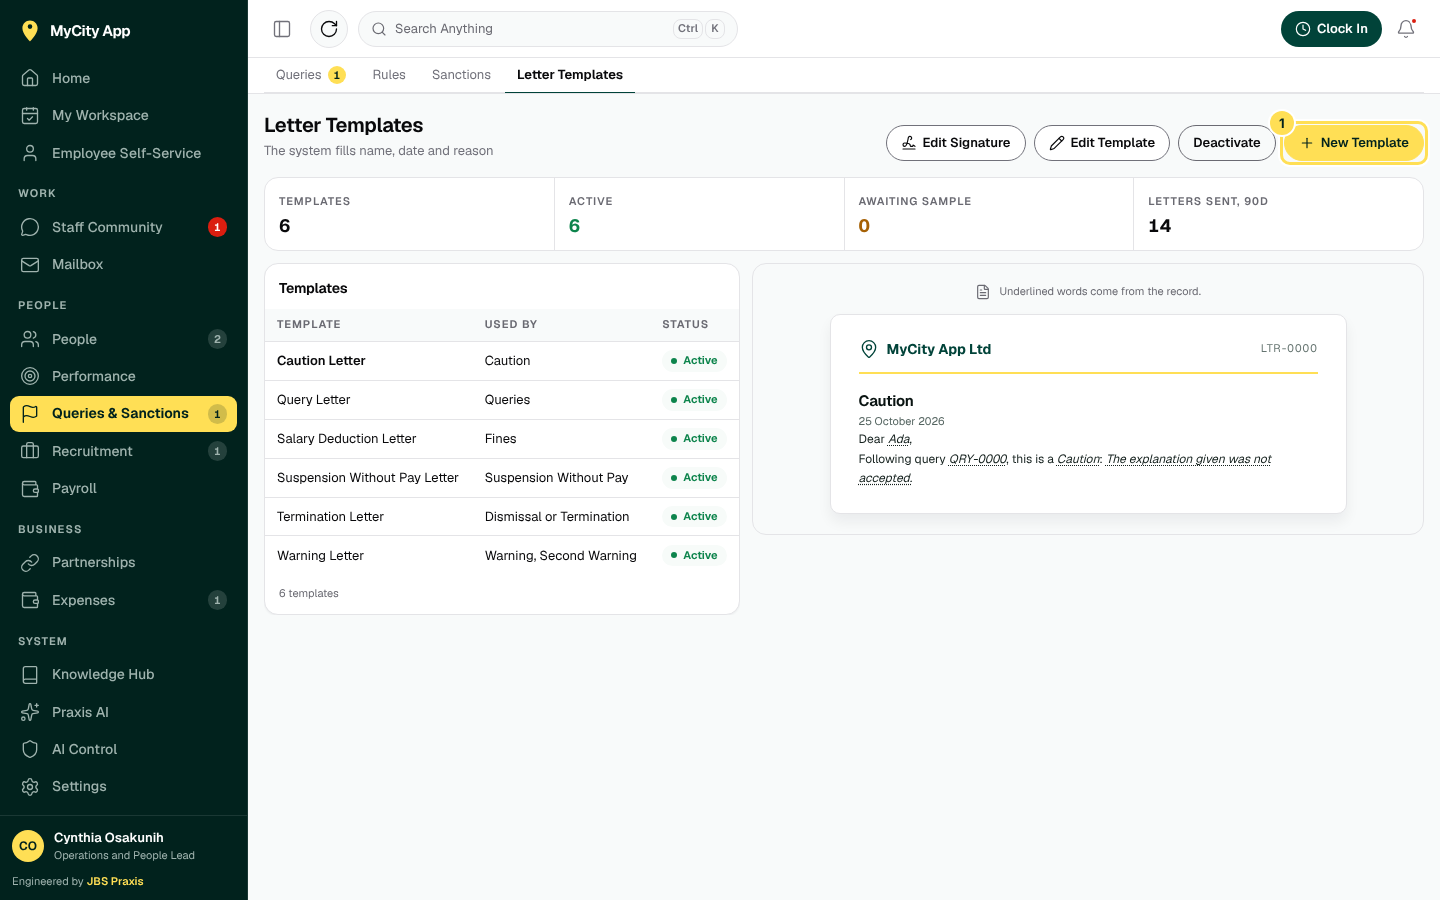
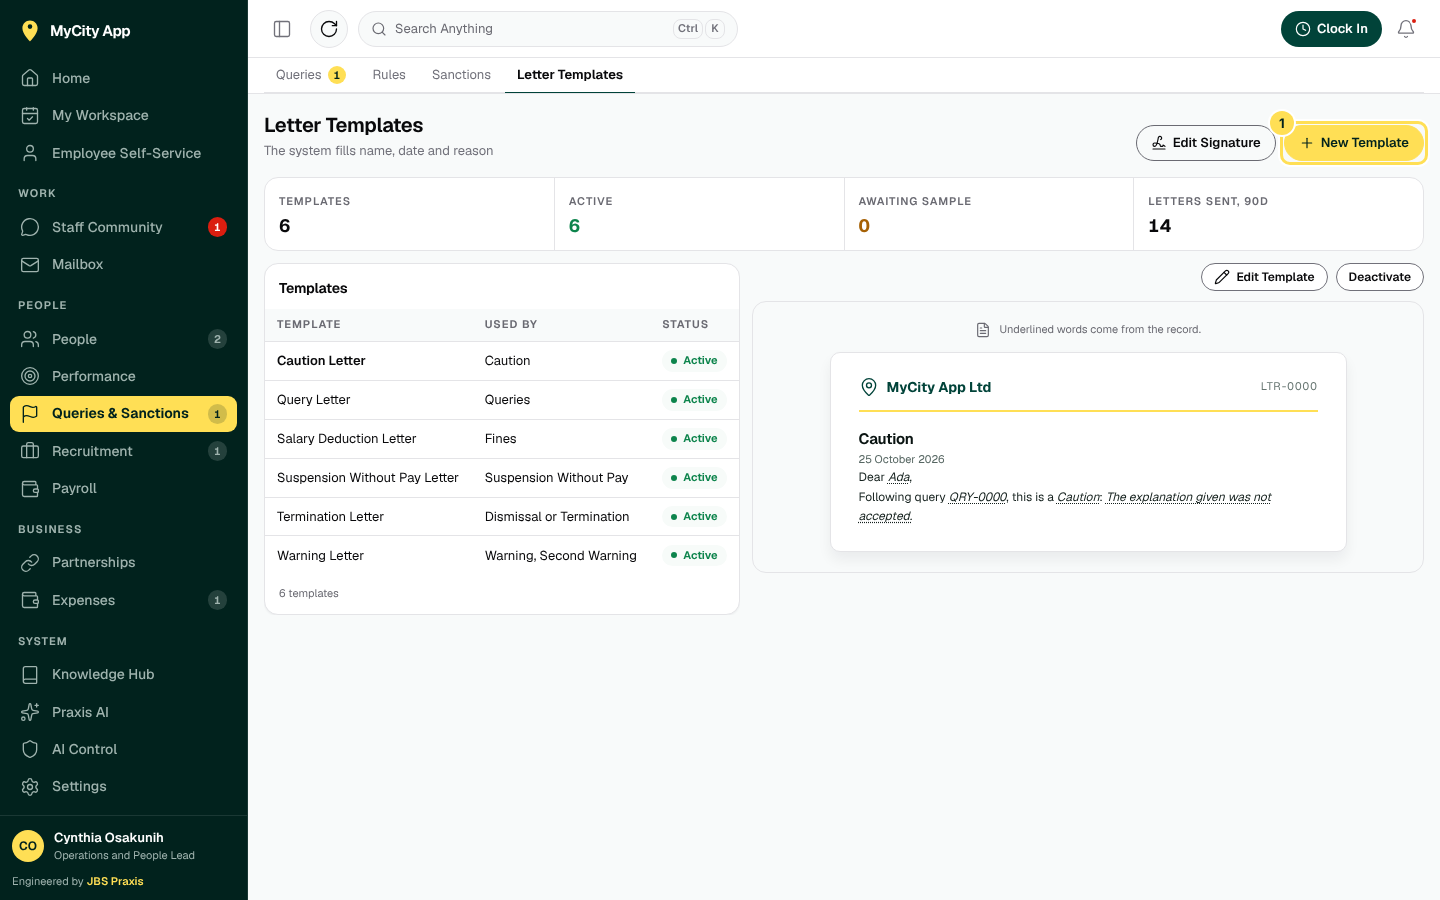
fix(sanctions): Issue Sanction lists every query ready for a decision; the letter's actions on its bar; the staging chain filled in
- Issue Sanction offered only answered queries, so one past its 24 hours unanswered never showed,
  though it can be decided. GET /queries?ready=true lists what a decision may be recorded on now
  (open, no sanction waiting, answered or past its deadline, not about the reader).
- Letter Templates: Edit Template and Activate or Deactivate sit on the letter's bar beside
  Download PDF; the header keeps Edit Signature and New Template.
- The staging seed adds each missing rung of the chain by name; a chain entered in part (staging
  had Caution and Warning by hand) is filled in, and a retired rung is not brought back.

Claude-Session: https://claude.ai/code/session_012fiycYuBHpukuELnRjtnBn

diff --git a/app/src/features/queries/index.tsx b/app/src/features/queries/index.tsx
@@ -3,7 +3,7 @@ import query_rules from "@mycity/contract/schemas/query_rules.js";
 import sanctions from "@mycity/contract/schemas/sanctions.js";
 import templates from "@mycity/contract/schemas/templates.js";
 import type { ConsequenceStep, LetterTemplate, LetterTemplateDetail, PersonRef, Query, QueryDetail, QueryRule, QueryRuleFiring, QueryRuleSource, Sanction } from "@mycity/contract/contract.gen.ts";
-import { useEffect, useRef, useState } from "react";
+import { useEffect, useRef, useState, type ReactNode } from "react";
 import { api, ApiError } from "@/api/client";
 import { saveBlob, useFileBlob } from "@/api/download";
 import type { PersonRef as PickedPerson } from "@/api/types/common";
@@ -636,7 +636,8 @@ const sanctionStatus = (s: Sanction) =>
  * Sanction. Only queries under review are offered; one that cannot be decided yet says why.
  */
 function IssueSanction({ close }: { close: () => void }) {
-  const list = usePaged("GET /api/v1/queries", { filters: { status: "under_review" }, sort: "-created_at" });
+  // Answered, or past the deadline unanswered: the queries a decision may be recorded on now.
+  const list = usePaged("GET /api/v1/queries", { filters: { ready: "true" }, sort: "-created_at" });
   const [picked, setPicked] = useState<Query[]>([]);
   const chosen = picked[0] ?? null;
   const q = useApi("GET /api/v1/queries/:id", { params: { id: chosen?.employee_query_id ?? "" }, enabled: !!chosen });
@@ -857,6 +858,20 @@ function Templates() {
       toast(e instanceof ApiError ? e.message : "Not saved");
     }
   };
+  // The letter's own actions sit on its preview, beside Download PDF.
+  const edit = () => shown && modal.open({ title: shown.name, wide: true, body: (close) => <EditTemplate id={shown.letter_template_id} close={close} /> });
+  const manage = configure && shown ? (
+    <>
+      <Button size="sm" icon="edit" onClick={edit}>Edit Template</Button>
+      {(shown.status === "draft" || shown.status === "active") && <Button size="sm" onClick={flip}>{shown.status === "active" ? "Deactivate" : "Activate"}</Button>}
+    </>
+  ) : null;
+  const above = (body: ReactNode) => (
+    <>
+      {manage && <ActionGroup><div className="mb-2.5 flex flex-wrap justify-end gap-2">{manage}</div></ActionGroup>}
+      {body}
+    </>
+  );
   return (
     <>
       <PageHeader
@@ -865,13 +880,7 @@ function Templates() {
         actions={
           <>
             <Button icon="signature" onClick={() => modal.open({ title: "My Signature", body: (close) => <EditSignature close={close} /> })}>Edit Signature</Button>
-            {configure && (
-            <>
-              {shown && <Button icon="edit" onClick={() => modal.open({ title: shown.name, wide: true, body: (close) => <EditTemplate id={shown.letter_template_id} close={close} /> })}>Edit Template</Button>}
-              {shown && (shown.status === "draft" || shown.status === "active") && <Button onClick={flip}>{shown.status === "active" ? "Deactivate" : "Activate"}</Button>}
-              <Button variant="primary" icon="plus" onClick={() => modal.open({ title: "New Template", body: (close) => <TemplateForm close={close} /> })}>New Template</Button>
-            </>
-            )}
+            {configure && <Button variant="primary" icon="plus" onClick={() => modal.open({ title: "New Template", body: (close) => <TemplateForm close={close} /> })}>New Template</Button>}
           </>
         }
       />
@@ -898,9 +907,9 @@ function Templates() {
         }
         detail={
           !shown ? null : shown.status === "awaiting_sample" ? (
-            <Card><EmptyState bare icon="doc" title="Awaiting Sample" text="Write the letter to preview it." /></Card>
+            <Card><EmptyState bare icon="doc" title="Awaiting Sample" text="Write the letter to preview it." action={configure ? <Button icon="edit" onClick={edit}>Edit Template</Button> : undefined} /></Card>
           ) : MOCK ? (
-            preview.data ? <Letter l={preview.data} /> : preview.error ? <Card><ErrorState error={preview.error} onRetry={preview.reload} /></Card> : <Card><LoadingRows count={6} /></Card>
+            above(preview.data ? <Letter l={preview.data} /> : preview.error ? <Card><ErrorState error={preview.error} onRetry={preview.reload} /></Card> : <Card><LoadingRows count={6} /></Card>)
           ) : pdf.blob && pdf.href ? (
             // The real PDF the employee would receive, signed with the reader's saved signature.
             <DocumentPreview
@@ -909,12 +918,18 @@ function Templates() {
               href={pdf.href}
               file={pdf.blob}
               height="page"
-              actions={<Button size="sm" icon="download" onClick={() => saveBlob(pdf.blob!, `${shown.name}.pdf`)}>Download PDF</Button>}
+              actions={
+                <ActionGroup>
+                  {manage}
+                  <Button size="sm" icon="download" onClick={() => saveBlob(pdf.blob!, `${shown.name}.pdf`)}>Download PDF</Button>
+                </ActionGroup>
+              }
             />
           ) : pdf.failed ? (
-            <Card><EmptyState bare icon="doc" title="Preview Not Ready" text="The letter could not be drawn." action={<Button icon="refresh" onClick={() => setRedraw((n) => n + 1)}>Try Again</Button>} /></Card>
+            above(<Card><EmptyState bare icon="doc" title="Preview Not Ready" text="The letter could not be drawn." action={<Button icon="refresh" onClick={() => setRedraw((n) => n + 1)}>Try Again</Button>} /></Card>)
           ) : (
             // The letter's own frame while it is drawn, never the wording first.
+            // The actions arrive with the PDF's bar, so they never jump from above it into it.
             <Card pad={false}><PdfViewer data={null} name={`${shown.name}.pdf`} height="page" /></Card>
           )
         }

diff --git a/src/modules/queries/queries.repo.js b/src/modules/queries/queries.repo.js
@@ -69,7 +69,8 @@ const SORTS = {
  * @param {{status?: string, employee_id?: string, raised?: "mine"|"rules", q?: string,
  *          raised_since?: string, raised_before?: string, page?: number, sort?: object}} query
  *   raised_since and raised_before are instants (the service turns a Lagos day into one)
- * @param {{all: boolean, user_id: string}} reader
+ *   ready: only queries the reader could decide now (queries.service decidable, less the edit grant)
+ * @param {{all: boolean, user_id: string, employee_id?: string|null}} reader
  */
 function list(db, query, reader) {
   const params = [
@@ -80,6 +81,8 @@ function list(db, query, reader) {
     query.q || null,
     query.raised_since || null,
     query.raised_before || null,
+    query.ready === "true",
+    reader.employee_id || null,
   ];
   const v = visibility.clause(reader, params, "v.raised_by");
   return pageQuery(
@@ -93,6 +96,9 @@ function list(db, query, reader) {
         AND ($5::text IS NULL OR v.haystack LIKE '%' || search_fold($5) || '%')
         AND ($6::timestamptz IS NULL OR v.created_at >= $6)
         AND ($7::timestamptz IS NULL OR v.created_at < $7)
+        AND (NOT $8::boolean OR (v.status <> 'resolved' AND NOT v.escalated
+             AND (v.responded_at IS NOT NULL OR v.response_due_at <= now())
+             AND ($9::uuid IS NULL OR v.employee_id <> $9)))
         ${v.and}
       ORDER BY ${orderBy(query, SORTS, "v.employee_query_id")}`,
     params,

diff --git a/tests/integration/queries.test.js b/tests/integration/queries.test.js
@@ -443,6 +443,20 @@ describeDb("queries and sanctions against the real migrations", () => {
       expect(self.body.error.code).toBe("QUERY_SELF");
     });
 
+    test("ready lists what a decision may be recorded on now: answered, or past the deadline unanswered", async () => {
+      const ready = async () => (await as("ops").get("/queries?ready=true&sort=number")).body.data.map((r) => r.number);
+      // QRY-0001 waits for Musa's answer, within its 24 hours.
+      expect(await ready()).toEqual([]);
+      const { response_due_at: due } = (await q("SELECT response_due_at FROM employee_query WHERE employee_query_id = $1", [ids.first])).rows[0];
+      await q("UPDATE employee_query SET response_due_at = now() - interval '1 hour' WHERE employee_query_id = $1", [ids.first]);
+      try {
+        expect(await ready()).toEqual(["QRY-0001"]);
+        expect((await as("ops").get(`/queries/${ids.first}`)).body.can_decide).toBe(true);
+      } finally {
+        await q("UPDATE employee_query SET response_due_at = $2 WHERE employee_query_id = $1", [ids.first, due]);
+      }
+    });
+
     test("a manager sees only the queries they raised; People and Management see all (§6.1)", async () => {
       const hod = await raise("hod", "other", "Late arrival on Monday");
       expect(hod.status).toBe(201);

diff --git a/seeds/staging/50_queries.js b/seeds/staging/50_queries.js
@@ -131,12 +131,17 @@ module.exports = async function seed({ pool, actor, log = () => {} }) {
   const staff = await realStaff(pool);
   const all = { scope: "all", scope_ids: null };
 
-  /* The chain, only when nobody has entered one. */
-  const { rows: steps } = await pool.query("SELECT count(*)::int AS n FROM consequence_step");
-  if (steps[0].n === 0) {
+  /*
+   * The chain: each rung added, at the end and in order, while no rung of its name exists. One
+   * entered by hand stays as it is, and a retired one is not brought back.
+   */
+  const { rows: steps } = await pool.query("SELECT name FROM consequence_step");
+  const have = new Set(steps.map((s) => s.name.toLowerCase()));
+  const missing = CHAIN.filter((step) => !have.has(step.name.toLowerCase()));
+  if (missing.length) {
     const by = (await callerOf(pool, staff.operations)) || actor;
-    for (const step of CHAIN) await chain.create(by, c.sanctions.ConsequenceStepCreate.parse(step));
-    log(`queries: the chain's ${CHAIN.length} rungs entered`);
+    for (const step of missing) await chain.create(by, c.sanctions.ConsequenceStepCreate.parse(step));
+    log(`queries: ${missing.length} of the chain's ${CHAIN.length} rungs entered (${missing.map((s) => s.name).join(", ")})`);
   }
 
   /* The rule. */

diff --git a/tests/integration/queries-staging-seed.test.js b/tests/integration/queries-staging-seed.test.js
@@ -161,4 +161,20 @@ describeDb("Queries & Sanctions' staging seed against the real migrations", () =
   test("a second run adds nothing", () => {
     expect(second).toEqual(first);
   });
+
+  // Staging had Caution and Warning entered by hand before the seed ran, so it entered none.
+  test("a chain entered in part gets its missing rungs, in order; a retired rung stays retired", async () => {
+    await q("UPDATE consequence_step SET active = false WHERE name = 'Second Warning'");
+    await q("DELETE FROM consequence_step WHERE name IN ('Suspension Without Pay', 'Dismissal or Termination')");
+    await runFile(seed, logs);
+    await settle();
+    const { rows } = await q("SELECT name, active FROM consequence_step ORDER BY position");
+    expect(rows).toEqual([
+      { name: "Caution", active: true },
+      { name: "Warning", active: true },
+      { name: "Second Warning", active: false },
+      { name: "Suspension Without Pay", active: true },
+      { name: "Dismissal or Termination", active: true },
+    ]);
+  });
 });

diff --git a/app/src/api/mock/modules/queries.ts b/app/src/api/mock/modules/queries.ts
@@ -466,6 +466,11 @@ route("GET /api/v1/queries", (req) => {
       status: (q, v) => q.status === v,
       employee_id: (q, v) => q.employee.employee_id === v,
       raised: (q, v) => (v === "mine" ? q.raised_by === uid(user) : q.source !== "person"),
+      // Ready for a decision, as can_decide reads it less the edit grant: Issue Sanction's picker.
+      ready: (q, v) =>
+        v !== "true" ||
+        (q.status !== "resolved" && !q.escalated && (!!q.responded_at || (!!q.response_due_at && new Date(q.response_due_at) <= new Date())) &&
+          byKey(user)?.employee_id !== q.employee.employee_id),
       // A review's month (performance.md §6.16): raised on these Lagos days, both inclusive.
       raised_from: (q, v) => lagosDay(q.created_at) >= v,
       raised_to: (q, v) => lagosDay(q.created_at) <= v,

diff --git a/packages/contract/schemas/queries.js b/packages/contract/schemas/queries.js
@@ -144,6 +144,9 @@ const QueryListQuery = listQuery(
     status: QueryStatus.optional(),
     employee_id: uuid.optional(),
     raised: z.enum(["mine", "rules"]).optional(),
+    // Ready for a decision (guide §6.4): open, no sanction waiting, answered or past its deadline,
+    // and not about the reader. Issue Sanction's picker lists these.
+    ready: z.enum(["true", "false"]).optional(),
     // Raised on these Lagos days, both inclusive (a review's month, performance.md §6.16).
     raised_from: isoDate.optional(),
     raised_to: isoDate.optional(),

diff --git a/packages/contract/contract.gen.ts b/packages/contract/contract.gen.ts
@@ -1,5 +1,5 @@
 // @generated by scripts/gen/contract.js. DO NOT EDIT.
-// Source hash: 3a7356d4cd261b87. Regenerate: npm run gen:contract
+// Source hash: 9921e8770c0539c9. Regenerate: npm run gen:contract
 /* eslint-disable */
 import type { z } from "zod";
 import * as access from "./schemas/access.js";

diff --git a/src/modules/queries/queries.visibility.js b/src/modules/queries/queries.visibility.js
@@ -21,6 +21,7 @@ function readerOf(scope, user) {
   return {
     all: Boolean(user && user.is_ceo === true) || Boolean(scope && scope.scope === "all"),
     user_id: user ? user.user_id : null,
+    employee_id: (user && user.employee_id) || null,
   };
 }
 

diff --git a/docs/guides/queries.md b/docs/guides/queries.md
@@ -125,7 +125,7 @@ Contract files: `schemas/queries.js`, `schemas/query_rules.js`, `schemas/sanctio
 | Method and path | Contract | Permission · scope | Paged | Notes |
 |---|---|---|---|---|
 | `GET /api/v1/queries/summary` | → `QueriesSummary` | `queries` view · §6.1 | no | |
-| `GET /api/v1/queries` | `QueryListQuery` (`status`, `employee_id`, `raised`: `mine`, `rules`, `raised_from` and `raised_to` (Lagos days, both inclusive; a review's month), `q`, `sort`) → `QueryPage` | `queries` view · §6.1 | yes, 25 | |
+| `GET /api/v1/queries` | `QueryListQuery` (`status`, `employee_id`, `raised`: `mine`, `rules`, `raised_from` and `raised_to` (Lagos days, both inclusive; a review's month), `ready` (`true`: open, no sanction waiting, answered or past its deadline, not about the reader; Issue Sanction's picker), `q`, `sort`) → `QueryPage` | `queries` view · §6.1 | yes, 25 | |
 | `GET /api/v1/queries/:id` | → `QueryDetail` | `queries` view · §6.1 | no | 404 outside visibility. `approval` names the stage a proposed sanction waits on, whether the reader may decide it and whether they sign |
 | `POST /api/v1/queries` | `QueryCreate` → `QueryDetail` | `queries` create | | Idempotency-Key |
 | `POST /api/v1/queries/:id/remind` | `EmptyBody` → `QueryDetail` | `queries` create · §6.1 | | Once a day, while awaiting a response |
@@ -480,9 +480,9 @@ or tier 2.**
 | Queries | KPI strip; All Queries and Raised by Me chips; the list (employee, number, subject, raised by or the rule, raised, response, status); the query card (subject, raised by (a person, the rule, or Attendance Policy), raised, response due, counted days, response, sanction, and while a sanction waits: its step and who it waits on); Raise a Query (only with `queries` create; also from ⌘K), Send Reminder, View Letter (the PDF the employee received), Record Decision; Approve Sanction (Your Signature at the Operations & People stage) and Reject (Reason) for whoever it waits on; a refused proposal reads "Not Approved" | Help on Escalated (the KPI) and on Waiting On: a sanction is waiting for approval. Help on Response Due: the 24 hour window. Help on Your Signature when approving: it signs the letters | Who can see which query, the dedup, how a rule counts: §6 here, the manual |
 | Record Decision | Outcome (Close, No Action or Sanction), the step (the next one marked Next; only steps whose letter is ready), dates for an unpaid suspension, Evidence (one item a line) for a step that requires it, fine, reason | Help on the next rung: why it is offered. Help on Evidence: the step needs the facts it rests on | The approval route and its thresholds: Settings · Approvals, §6.5 |
 | Rules | KPI strip; rule cards (name, trigger, threshold as "3 in 14 days", the policy it enforces, status), a page at a time; Recent Firings; New Rule, Edit Rule, Activate, Pause; the rule form's Name, What Sets It Off, How Many Times, Within, Days, Policy and Clause (both Optional); an empty state when there are no rules | Help on Policy and on Clause, as the form reads them. Help on What Sets It Off: late arrivals, absences and missing clock-outs are the Attendance Policy's. Help on a draft's trigger nothing counts yet (Missed Target), in place of Activate | Counting after the last query, the dedup key: §6.3 |
-| Sanctions | KPI strip; the history (employee, sanction, query, reason, decided by, date, fine, status); Issue Sanction (with `queries` edit: Query, a picker of those under review, then Record Decision at Sanction), Chain Settings | None | The rank rule for approvals, valid_days mechanics: §6.5 |
+| Sanctions | KPI strip; the history (employee, sanction, query, reason, decided by, date, fine, status); Issue Sanction (with `queries` edit: Query, a picker of those ready for a decision (`ready=true`), then Record Decision at Sanction), Chain Settings | None | The rank rule for approvals, valid_days mechanics: §6.5 |
 | Chain Settings | The steps in order (position and name, Ready, Needs a Letter or Retired, letter, financial effect, in force for); Add Step, Move Up, Move Down, Retire, Restore | Help on In Force For: how long a step counts for the next offence | Why a fine is not a rung: §6.6 |
-| Letter Templates | Stat strip; the list (template, used by, status); the selected letter as its PDF, with Download PDF (on paper, the record's words underlined, in the demo build); Edit Signature; New Template (Name, Used For, Letter; Save Draft, Save and Activate), Edit Template (Name, Used For while nothing sends it, Letter, opening with its wording), Activate on a draft, Deactivate on an active letter | Help on Letter: the names a letter can use. Help on Used For when it is fixed | Versioning, the shipped defaults: §6.7 |
+| Letter Templates | Stat strip; the list (template, used by, status); the selected letter as its PDF, its bar holding Edit Template, Activate or Deactivate, Download PDF and Open in Tab (on paper, the record's words underlined, in the demo build, the actions above it); Edit Signature and New Template in the header; New Template (Name, Used For, Letter; Save Draft, Save and Activate), Edit Template (Name, Used For while nothing sends it, Letter, opening with its wording), Activate on a draft, Deactivate on an active letter | Help on Letter: the names a letter can use. Help on Used For when it is fixed | Versioning, the shipped defaults: §6.7 |
 | ESS · My Queries | The Queries and Sanctions switch with each one's count; Queries: the list (number, subject, raised, status), the picked query (subject, raised, respond by, what happened, your response, outcome, sanction), View Letter, Respond; Sanctions: the list (sanction, query, reason, date, fine), each opening its letter | Help on Respond By: the 24 hour window | The sanitising, the Markdown kept: §3 step 3 |
 
 ### 10.2 Phone layout
@@ -585,7 +585,11 @@ or tier 2.**
   A letter's PDF grows to its pages (`height="page"`), so the screen scrolls once, not a frame
   inside it. Rules says why Late Arrival is not offered and why Missed Target has no Activate. A
   signature is kept cut to its ink (`SignatureField`), so a letter prints it at a signature's size,
-  not the whole pad shrunk to a mark.
+  not the whole pad shrunk to a mark. Edit Template and Activate or Deactivate moved from the header
+  onto the letter's bar, beside Download PDF (GE, 29/10/2026). Issue Sanction offered only answered
+  queries, so one past its 24 hours unanswered (decidable all the same) never showed: its picker
+  lists `ready=true` now. The staging seed adds each missing rung of the chain by name, so a chain
+  entered in part on staging is filled in; a retired rung is not brought back.
 - 27/10/2026 · GE · My Signature (handoff §9, S2; §6.9): drawn once on Letter Templates' Edit
   Signature, kept through the vault (`letter_signature`, migration `3050`); Raise a Query's and
   Approve Sanction's pads open with it.

diff --git a/docs/PROGRESS.md b/docs/PROGRESS.md
@@ -1192,6 +1192,7 @@ order, then PR 3, PR 4 and PR 5 in parallel; each PR moves its own row)
 - 28/10/2026 · GE · Issue Sanction on Sanctions (#36) picks the query in place (handoff §9, S4): a picker of the queries under review, then Record Decision on it at Sanction; only with `queries` edit (it sent the reader to Queries). The contract's saved-signature shapes renamed `LetterSignature`, `LetterSignatureSave` (the mailbox owns `MySignature`). Left: nothing of the sequel; MyCity's HR to read the deduction letter; the public repository (handoff §8.1).
 - 28/10/2026 · GE · Letter Templates (#37) from GE's staging walk: the PDF preview drew nothing (the viewer had the link, not the bytes) and the paper wording flashed first; it now opens in the PDF's frame while drawn, with Try Again on failure, and renders once. A browser forcing dark mode darkened the signature pad under its ink: `SignatureField` (`@mycity/ui`) now paints its paper into the bitmap, which the browser leaves alone (checked in Chromium with forced dark on). Left: check both on staging once #33 deploys.
 - 28/10/2026 · GE · Second staging walk on Queries (#34), Rules (#35) and Letter Templates (#37): View Letter drew nothing (`DocumentPreview` in `@mycity/ui` now reads a PDF's bytes from its link when given none, which mends every caller, My Queries' letters included); a letter's PDF grows to its pages (`height="page"`) so one scroll bar shows, not two; Rules carries help on What Sets It Off (late arrivals, absences and missing clock-outs are the Attendance Policy's) and on a Missed Target draft, which waits for KPI targets before Activate. A drawn signature is kept cut to its ink, so letters print it at a signature's size rather than a speck. Left: walk it on staging; a signature saved before this stays as drawn until redrawn.
+- 29/10/2026 · GE · Sanctions (#36) and Letter Templates (#37) from staging: Issue Sanction found no query, as it offered only answered ones; a query past its 24 hours unanswered can be decided too, and the picker now lists every query ready for a decision (`GET /queries?ready=true`). Edit Template and Activate or Deactivate sit on the letter's bar beside Download PDF. The staging seed adds the chain's missing rungs by name (staging had Caution and Warning entered by hand, so it had entered none); a retired rung stays retired. Left: walk it on staging after the next deploy.
 
 ### Recruitment
 

diff --git a/docs/manual/queries-and-sanctions.md b/docs/manual/queries-and-sanctions.md
@@ -248,7 +248,7 @@ Every sanction follows a query.
 
 1. Press **Issue Sanction** at the top right.
 2. Under **Query**, search for the query by its number, the person's name or its subject, and pick
-   it. Only queries under review are offered.
+   it. Only queries ready for a decision are offered: answered, or past the 24 hours unanswered.
 3. **Record Decision** opens on it at **Sanction**: follow [Record a decision](#queries-decide) from
    step 5.
 
@@ -307,7 +307,8 @@ A letter **Awaiting Sample** has no wording yet: MyCity has still to send its sa
 
 1. Open [Queries & Sanctions · Letter Templates](/queries?tab=letter-templates) and press the
    template.
-2. Press **Edit Template** at the top right. The letter opens with its wording as it is sent.
+2. Press **Edit Template** on the letter's bar, beside **Download PDF**. The letter opens with its
+   wording as it is sent.
 3. Change the **Name** if you need to. While no step or rule sends the letter, you can also change
    **Used For**.
 4. Change the wording under **Letter**. Type `{{ employee.first_name }}`, `{{ query_number }}`,
@@ -332,7 +333,7 @@ A step chooses its letter on [Chain Settings](#queries-chain), and a rule under 
 ### Switch a letter on or off {#queries-letters-activate needs="queries edit, cap queries.configure"}
 
 1. Press the letter on [Queries & Sanctions · Letter Templates](/queries?tab=letter-templates).
-2. Press **Activate** at the top right for a draft. A letter with no wording cannot be switched on.
+2. Press **Activate** on the letter's bar for a draft. A letter with no wording cannot be switched on.
 3. Press **Deactivate** for an active letter you no longer use. It goes back to a draft.
 
 | The hub says | Why | What to do |
